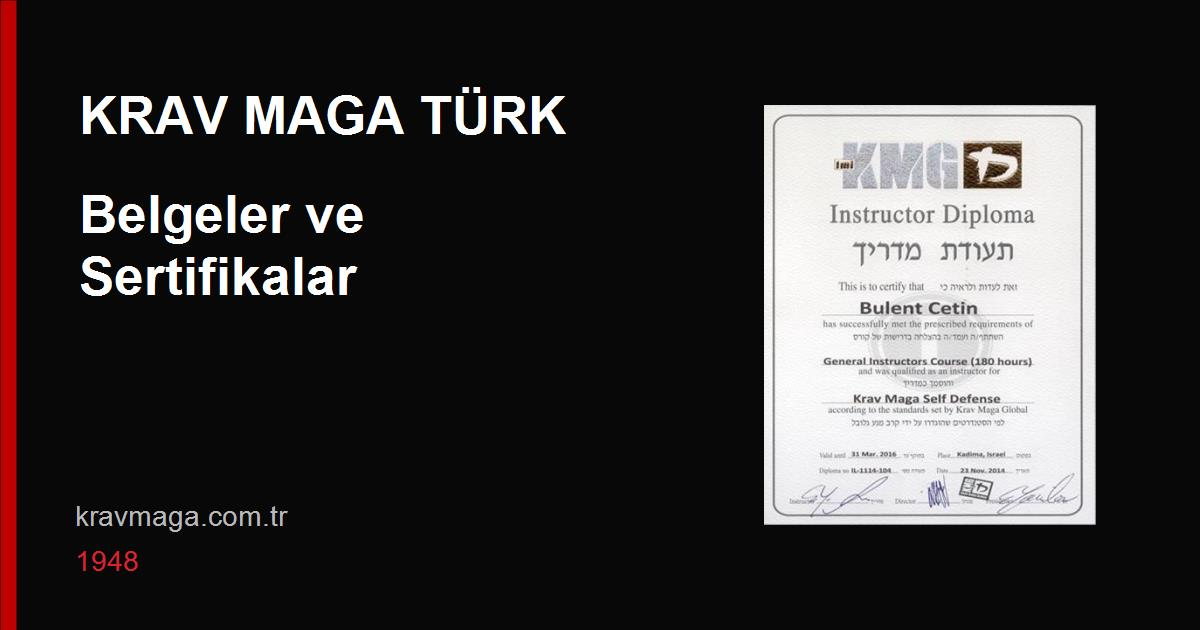
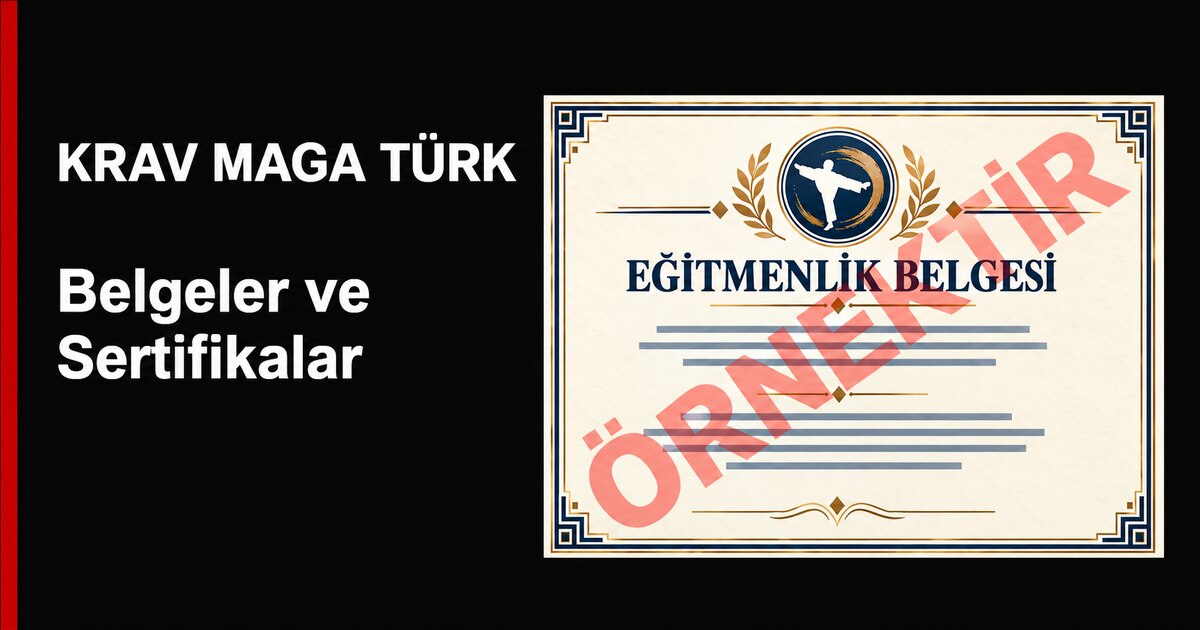
Replace document photos with watermarked sample illustrations

diff --git a/belgeler.html b/belgeler.html
@@ -13,8 +13,8 @@
 <meta property="og:title" content="Belgeler | Krav Maga Türk">
 <meta property="og:description" content="Krav Maga Türk belge, sertifika ve eğitim arşivinden seçilmiş kayıtlar.">
 <meta property="og:url" content="https://kravmaga.com.tr/belgeler">
-<meta property="og:image" content="https://kravmaga.com.tr/assets/social/belgeler-1200x630.jpg?v=20261001">
-<meta property="og:image:secure_url" content="https://kravmaga.com.tr/assets/social/belgeler-1200x630.jpg?v=20261001">
+<meta property="og:image" content="https://kravmaga.com.tr/assets/social/belgeler-1200x630.jpg?v=20261012">
+<meta property="og:image:secure_url" content="https://kravmaga.com.tr/assets/social/belgeler-1200x630.jpg?v=20261012">
 <meta property="og:image:type" content="image/jpeg">
 <meta property="og:image:width" content="1200">
 <meta property="og:image:height" content="630">
@@ -22,7 +22,7 @@
 <meta name="twitter:card" content="summary_large_image">
 <meta name="twitter:title" content="Belgeler | Krav Maga Türk">
 <meta name="twitter:description" content="Krav Maga Türk belge, sertifika ve eğitim arşivinden seçilmiş kayıtlar.">
-<meta name="twitter:image" content="https://kravmaga.com.tr/assets/social/belgeler-1200x630.jpg?v=20261001">
+<meta name="twitter:image" content="https://kravmaga.com.tr/assets/social/belgeler-1200x630.jpg?v=20261012">
 <meta name="description" content="Krav Maga Türk belge, sertifika ve eğitim arşivinden seçilmiş kayıtlar.">
 <meta name="robots" content="index,follow,max-image-preview:large">
 <style>html,body{margin:0;min-height:100%;background:#050505;color:#fff}body{font-family:Arial,Helvetica,sans-serif;overflow-x:hidden}
@@ -296,7 +296,7 @@
     <p>
       Bu bölümde Bülent Çetin'in eğitim geçmişi, Krav Maga
       çalışmaları ve mesleki faaliyetleri kapsamında edinilmiş
-      diploma, sertifika ve belgeler yer almaktadır.
+      diploma, sertifika ve belgelere ait temsili çizimler yer almaktadır.
     </p>
 
     <p>
@@ -324,301 +324,129 @@
       <h2>Belgelerimiz</h2>
 
       <p>
-        Belgeyi tam boy görüntülemek için görselin üzerine tıklayın.
+        Görseller imza ve kişisel bilgiler içermeyen temsili çizimlerdir. Büyütmek için çizime tıklayın.
       </p>
 
     </div>
 
 
     <div class="grid">
-
-
-      <!-- 01 -->
       <article class="card">
-
-        <a
-          href="assets/documents/muay-thai-sicil.jpg">
-
+        <a href="assets/document-illustrations/marka-tescili.webp">
           <div class="pic">
-
-            <img
-              src="assets/documents/muay-thai-sicil.jpg"
-              alt="Bülent Çetin eğitim diploması"
-              loading="lazy" decoding="async">
-
+            <img src="assets/document-illustrations/marka-tescili.webp" alt="MARKA marka tescili örnek çizimi, çapraz ÖRNEKTİR damgalı" loading="lazy" decoding="async" width="1448" height="1086">
           </div>
-
           <div class="info">
-
             <b>01</b>
-
-            <span>DİPLOMA</span>
-
-            <strong>
-              EĞİTİM BELGESİ
-            </strong>
-
+            <span>MARKA</span>
+            <strong>MARKA TESCİLİ</strong>
           </div>
-
         </a>
-
       </article>
 
-
-      <!-- 02 -->
       <article class="card">
-
-        <a
-          href="assets/documents/tpe-marka-tescil.jpg">
-
+        <a href="assets/document-illustrations/kmg-egitmenlik.webp">
           <div class="pic">
-
-            <img
-              src="assets/documents/tpe-marka-tescil.jpg"
-              alt="Bülent Çetin mesleki eğitim belgesi"
-              loading="lazy" decoding="async">
-
+            <img src="assets/document-illustrations/kmg-egitmenlik.webp" alt="KRAV MAGA eğitmenlik belgesi örnek çizimi, çapraz ÖRNEKTİR damgalı" loading="lazy" decoding="async" width="1448" height="1086">
           </div>
-
           <div class="info">
-
             <b>02</b>
-
-            <span>MESLEKİ GELİŞİM</span>
-
-            <strong>
-              EĞİTİM BELGESİ
-            </strong>
-
-          </div>
-
-        </a>
-
-      </article>
-
-
-      <!-- 03 -->
-      <article class="card">
-
-        <a
-          href="assets/documents/kmg-instructor.jpg">
-
-          <div class="pic">
-
-            <img
-              src="assets/documents/kmg-instructor.jpg"
-              alt="Bülent Çetin Krav Maga Global instructor diploması"
-              loading="lazy" decoding="async">
-
-          </div>
-
-          <div class="info">
-
-            <b>03</b>
-
-            <span>KRAV MAGA GLOBAL</span>
-
-            <strong>
-              INSTRUCTOR DIPLOMA
-            </strong>
-
-          </div>
-
-        </a>
-
-      </article>
-
-
-      <!-- 04 -->
-      <article class="card">
-
-        <a
-          href="assets/documents/taekwondo.png">
-
-          <div class="pic">
-
-            <img
-              src="assets/documents/taekwondo.png"
-              alt="Bülent Çetin Tae Kwon Do belgesi"
-              loading="lazy" decoding="async">
-
-          </div>
-
-          <div class="info">
-
-            <b>04</b>
-
-            <span>TAE KWON DO</span>
-
-            <strong>DİPLOMA</strong>
-
-          </div>
-
-        </a>
-
-      </article>
-
-
-      <!-- 05 -->
-      <article class="card">
-
-        <a
-          href="assets/documents/kmf.jpg">
-
-          <div class="pic">
-
-            <img
-              src="assets/documents/kmf.jpg"
-              alt="Bülent Çetin Krav Maga eğitim belgesi"
-              loading="lazy" decoding="async">
-
-          </div>
-
-          <div class="info">
-
-            <b>05</b>
-
             <span>KRAV MAGA</span>
-
-            <strong>
-              EĞİTİM BELGESİ
-            </strong>
-
+            <strong>EĞİTMENLİK BELGESİ</strong>
           </div>
-
         </a>
-
       </article>
 
-
-      <!-- 06 -->
       <article class="card">
-
-        <a
-          href="assets/documents/muay-thai-hakem.png">
-
+        <a href="assets/document-illustrations/taekwondo-sicil.webp">
           <div class="pic">
-
-            <img
-              src="assets/documents/muay-thai-hakem.png"
-              alt="Bülent Çetin Muay Thai eğitim belgesi"
-              loading="lazy" decoding="async">
-
+            <img src="assets/document-illustrations/taekwondo-sicil.webp" alt="TAE KWON DO sicil özeti örnek çizimi, çapraz ÖRNEKTİR damgalı" loading="lazy" decoding="async" width="1448" height="1086">
           </div>
-
           <div class="info">
+            <b>03</b>
+            <span>TAE KWON DO</span>
+            <strong>SİCİL ÖZETİ</strong>
+          </div>
+        </a>
+      </article>
 
-            <b>06</b>
+      <article class="card">
+        <a href="assets/document-illustrations/krav-maga-egitim.webp">
+          <div class="pic">
+            <img src="assets/document-illustrations/krav-maga-egitim.webp" alt="KRAV MAGA eğitim belgesi örnek çizimi, çapraz ÖRNEKTİR damgalı" loading="lazy" decoding="async" width="1448" height="1086">
+          </div>
+          <div class="info">
+            <b>04</b>
+            <span>KRAV MAGA</span>
+            <strong>EĞİTİM BELGESİ</strong>
+          </div>
+        </a>
+      </article>
 
+      <article class="card">
+        <a href="assets/document-illustrations/muay-thai-hakemlik.webp">
+          <div class="pic">
+            <img src="assets/document-illustrations/muay-thai-hakemlik.webp" alt="MUAY THAI hakemlik belgesi örnek çizimi, çapraz ÖRNEKTİR damgalı" loading="lazy" decoding="async" width="1448" height="1086">
+          </div>
+          <div class="info">
+            <b>05</b>
             <span>MUAY THAI</span>
-
-            <strong>
-              EĞİTİM BELGESİ
-            </strong>
-
+            <strong>HAKEMLİK BELGESİ</strong>
           </div>
-
         </a>
-
       </article>
 
-
-      <!-- 07 -->
       <article class="card">
-
-        <a
-          href="assets/documents/icts.jpg">
-
+        <a href="assets/document-illustrations/guvenlik-egitim.webp">
           <div class="pic">
-
-            <img
-              src="assets/documents/icts.jpg"
-              alt="Bülent Çetin uluslararası eğitim sertifikası"
-              loading="lazy" decoding="async">
-
+            <img src="assets/document-illustrations/guvenlik-egitim.webp" alt="GÜVENLİK EĞİTİMİ eğitim belgesi örnek çizimi, çapraz ÖRNEKTİR damgalı" loading="lazy" decoding="async" width="1448" height="1086">
           </div>
-
           <div class="info">
+            <b>06</b>
+            <span>GÜVENLİK EĞİTİMİ</span>
+            <strong>EĞİTİM BELGESİ</strong>
+          </div>
+        </a>
+      </article>
 
+      <article class="card">
+        <a href="assets/document-illustrations/uluslararasi-egitim.webp">
+          <div class="pic">
+            <img src="assets/document-illustrations/uluslararasi-egitim.webp" alt="ULUSLARARASI EĞİTİM eğitim belgesi örnek çizimi, çapraz ÖRNEKTİR damgalı" loading="lazy" decoding="async" width="1448" height="1086">
+          </div>
+          <div class="info">
             <b>07</b>
-
             <span>ULUSLARARASI EĞİTİM</span>
-
-            <strong>SERTİFİKA</strong>
-
+            <strong>EĞİTİM BELGESİ</strong>
           </div>
-
         </a>
-
       </article>
 
-
-      <!-- 08 -->
       <article class="card">
-
-        <a
-          href="assets/documents/esa.png">
-
+        <a href="assets/document-illustrations/kmg-gelisim.webp">
           <div class="pic">
-
-            <img
-              src="assets/documents/esa.png"
-              alt="European Security Academy eğitim belgesi"
-              loading="lazy" decoding="async">
-
+            <img src="assets/document-illustrations/kmg-gelisim.webp" alt="KRAV MAGA gelişim belgesi örnek çizimi, çapraz ÖRNEKTİR damgalı" loading="lazy" decoding="async" width="1448" height="1086">
           </div>
-
           <div class="info">
-
             <b>08</b>
-
-            <span>
-              EUROPEAN SECURITY ACADEMY
-            </span>
-
-            <strong>
-              EĞİTİM BELGESİ
-            </strong>
-
+            <span>KRAV MAGA</span>
+            <strong>GELİŞİM BELGESİ</strong>
           </div>
-
         </a>
-
       </article>
 
-
-      <!-- 09 -->
       <article class="card">
-
-        <a
-          href="assets/documents/kmg-graduate.jpg">
-
+        <a href="assets/document-illustrations/taekwondo-diploma.webp">
           <div class="pic">
-
-            <img
-              src="assets/documents/kmg-graduate.jpg"
-              alt="Bülent Çetin Krav Maga Global Graduate diploması"
-              loading="lazy" decoding="async">
-
+            <img src="assets/document-illustrations/taekwondo-diploma.webp" alt="TAE KWON DO eğitim belgesi örnek çizimi, çapraz ÖRNEKTİR damgalı" loading="lazy" decoding="async" width="1448" height="1086">
           </div>
-
           <div class="info">
-
             <b>09</b>
-
-            <span>KRAV MAGA GLOBAL</span>
-
-            <strong>
-              GRADUATE DIPLOMA
-            </strong>
-
+            <span>TAE KWON DO</span>
+            <strong>EĞİTİM BELGESİ</strong>
           </div>
-
         </a>
-
       </article>
-
-
     </div>
 
   </div>
